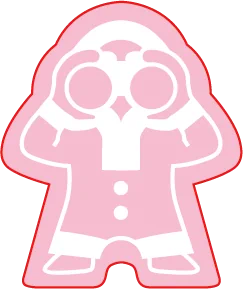
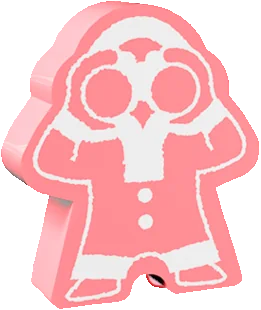
New meeple images and sizes for new images

diff --git a/borealisarcticexpeditions.css b/borealisarcticexpeditions.css
@@ -603,13 +603,13 @@ html[data-theme=dark] .bae_playerboard {
   height: 100%;
 }
 .bae_camp_zone .bae_meeple_yellow {
-  width: 50.9523809524%;
+  width: 55.9523809524%;
 }
 .bae_camp_zone .bae_meeple_teal {
-  width: 49.7619047619%;
+  width: 53.5714285714%;
 }
 .bae_camp_zone .bae_meeple_pink {
-  width: 57.8571428571%;
+  width: 62.1428571429%;
 }
 
 .bae_camp_left {
@@ -648,13 +648,13 @@ html[data-theme=dark] .bae_playerboard {
   height: 100%;
 }
 .bae_regroup_hold .bae_meeple_yellow {
-  width: 50.9523809524%;
+  width: 55.9523809524%;
 }
 .bae_regroup_hold .bae_meeple_teal {
-  width: 49.7619047619%;
+  width: 53.5714285714%;
 }
 .bae_regroup_hold .bae_meeple_pink {
-  width: 57.8571428571%;
+  width: 62.1428571429%;
 }
 
 .bae_regroup_hold_left {
@@ -701,13 +701,13 @@ html[data-theme=dark] .bae_playerboard {
   pointer-events: auto;
 }
 .bae_location_zone .bae_meeple_yellow {
-  width: 29.8050139276%;
+  width: 32.7298050139%;
 }
 .bae_location_zone .bae_meeple_teal {
-  width: 29.1086350975%;
+  width: 31.3370473538%;
 }
 .bae_location_zone .bae_meeple_pink {
-  width: 33.8440111421%;
+  width: 36.3509749304%;
 }
 
 .bae_slot_left {

diff --git a/src/scss/Game.scss b/src/scss/Game.scss
@@ -37,9 +37,9 @@ $track_index_pad: 17.5;
 
 $location_sci_shelf_width: 718;
 $location_sci_shelf_height: 394;
-$meeple_yellow_width: 214;
-$meeple_teal_width: 209;
-$meeple_pink_width: 243;
+$meeple_yellow_width: 235;
+$meeple_teal_width: 225;
+$meeple_pink_width: 261;
 $card_width: 528;
 $card_height: 745;
 $location_card_shift_y: 170; // The offset between stacked animal cards in a location, in reference pixels.
